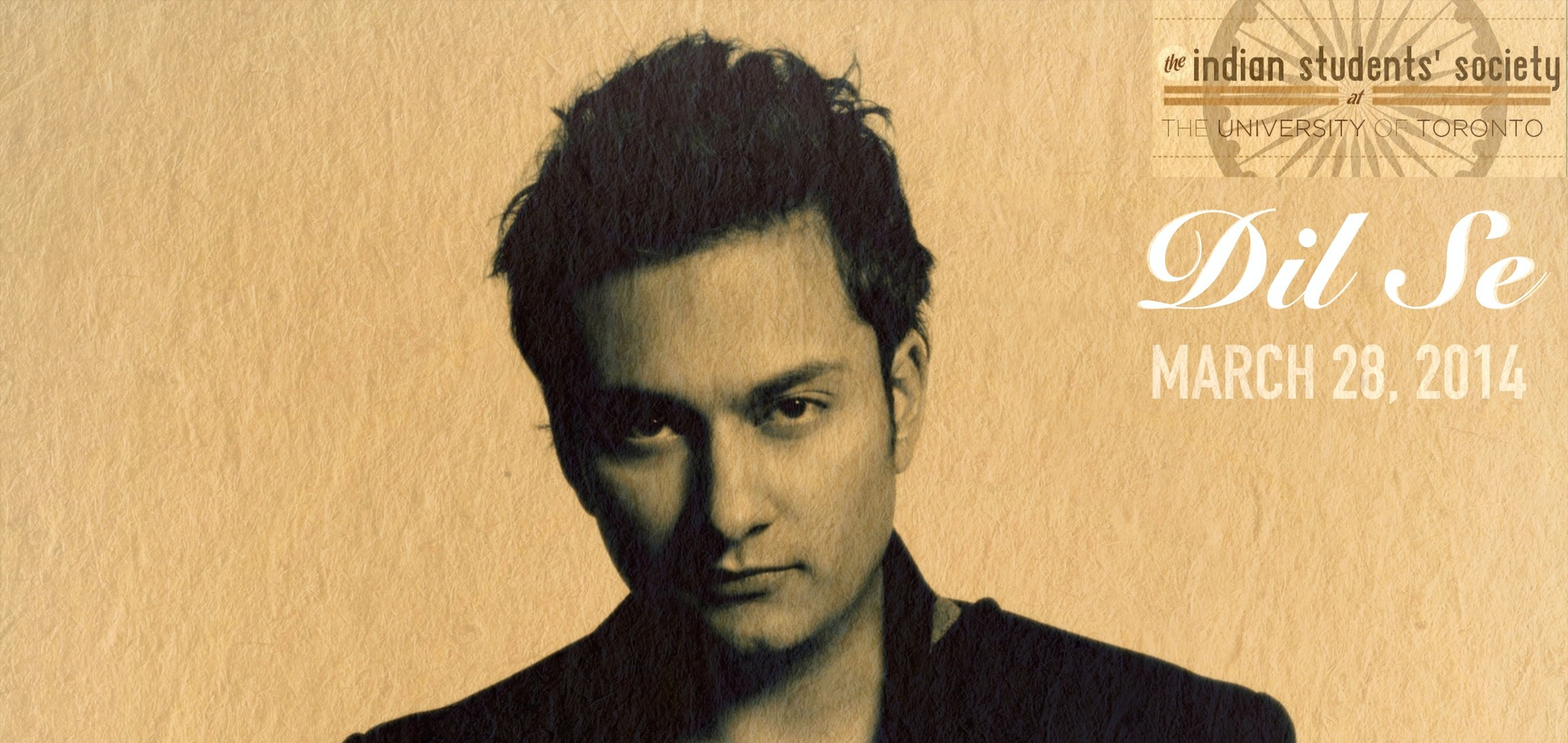
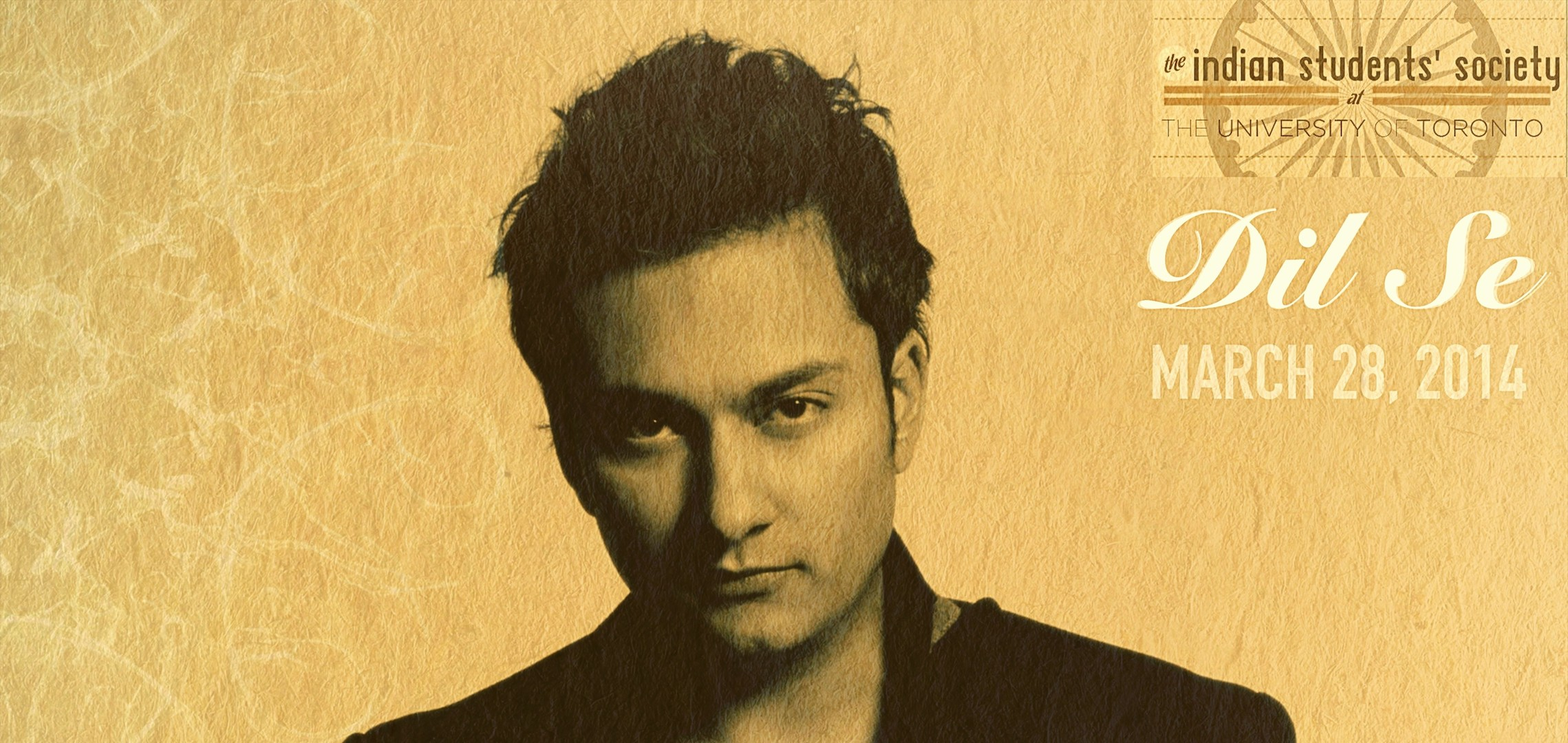
updated bg.jpg and 3rd year of dil se...

diff --git a/dilse2014.html b/dilse2014.html
@@ -102,7 +102,7 @@
         <div class="container">
             <div class="row">
                 <div class="col-md-6 col-md-offset-3 text-center">
-                    <h2>Dil Se is coming back again this year for its 4th consecutive show!</h2>
+                    <h2>Dil Se is coming back again this year for its 3rd consecutive show!</h2>
                     <p class="lead">Quick, grab your early-bird tickets from our various booths across the campus! We also have a
                     VIP package now. <i>Psst..</i> <font size="-1em">a little birdie tells me that you get to meet &amp; greet Raghav with the VIP
                         Ticket</font> <a target="_blank" href="http://tinyurl.com/dilse2014/">RSVP here!</a></p>
